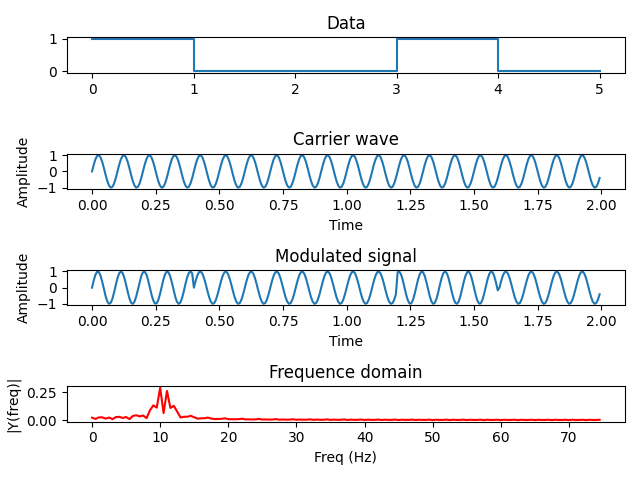
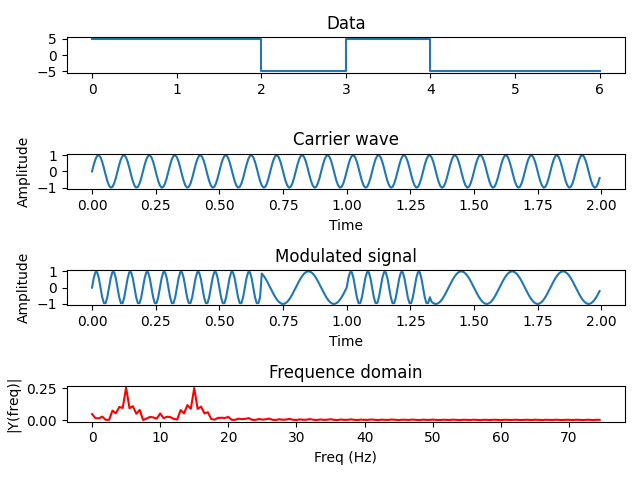
[FIX] fixing FSK to add the proper array bit and minor changes in other files

diff --git a/digital_modulations.py b/digital_modulations.py
@@ -59,7 +59,7 @@ class BaseClass:
 
 class Ask(BaseClass):
 	def __init__(self):
-		super().__init__("ask", 10)
+		super().__init__("ask")
 		self.data = np.array([1, 0, 1, 1, 0, 1]) # <- Input bit rate
 		self.samples_per_bit = 2*self.Fs/self.data.size 
 		self.dd = np.repeat(self.data, self.samples_per_bit)
@@ -72,7 +72,7 @@ class Ask(BaseClass):
 class Fsk(BaseClass):
 	def __init__(self):
 		super().__init__("fsk")	
-		self.data = np.array([3,2,7,5,-5])
+		self.data = np.array([5, 5, -5, 5, -5, -5])
 		self.samples_per_bit = 2*self.Fs/self.data.size 
 		self.dd = np.repeat(self.data, self.samples_per_bit)
 		self.carrier = np.sin(2 * np.pi * self.freq * self.t)
@@ -113,5 +113,5 @@ if __name__ == "__main__":
 		#if (len(sys.argv)>3):
 		#	file=str(sys.argv[1])
 	else:
-		print("You need to pass the modulation type as the first argument [ask|fsk|psk|qam]")	
+		print("You need to pass the modulation type as the first argument [ask|fsk|psk]")	
 	print("...DONE")

diff --git a/readme.md b/readme.md
@@ -1,4 +1,4 @@
-# Digital modulations: ASK, FSK, PSK & QAM
+# Digital modulations: ASK, FSK, PSK
 
 A python implementation to visualize digital modulations.
 
@@ -16,7 +16,7 @@ You may need to use pip instead of pip3 depending on your system setup.
 ### Execution 🚀
 
 Pass the desired modulation type as an argument.
-Valid options are: ask, fsk, psk (qam is in progress)
+Valid options are: ask, fsk, psk
 ```
 python3 digital_modulations.py ask
 ```
